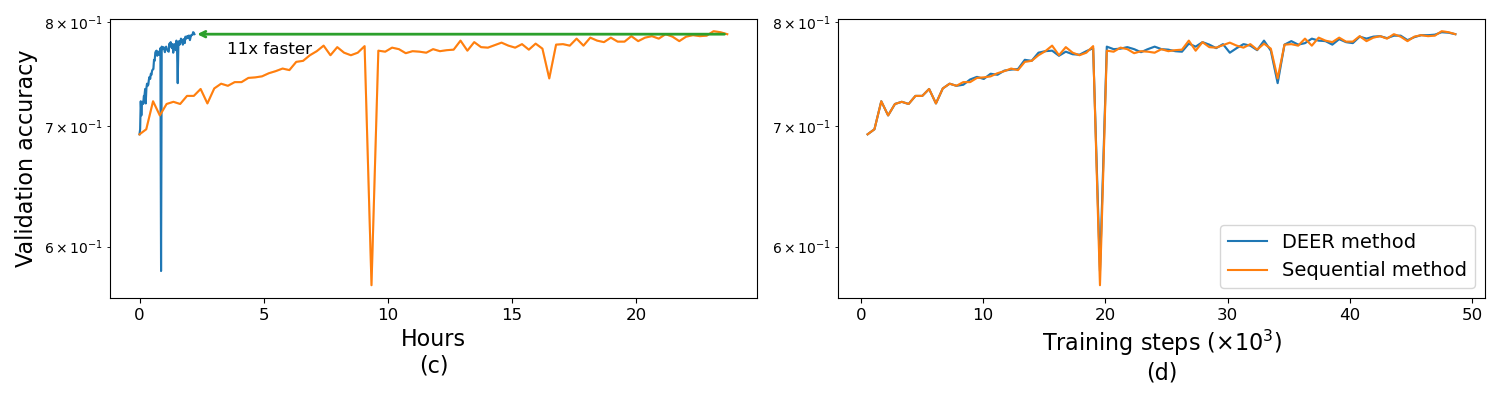
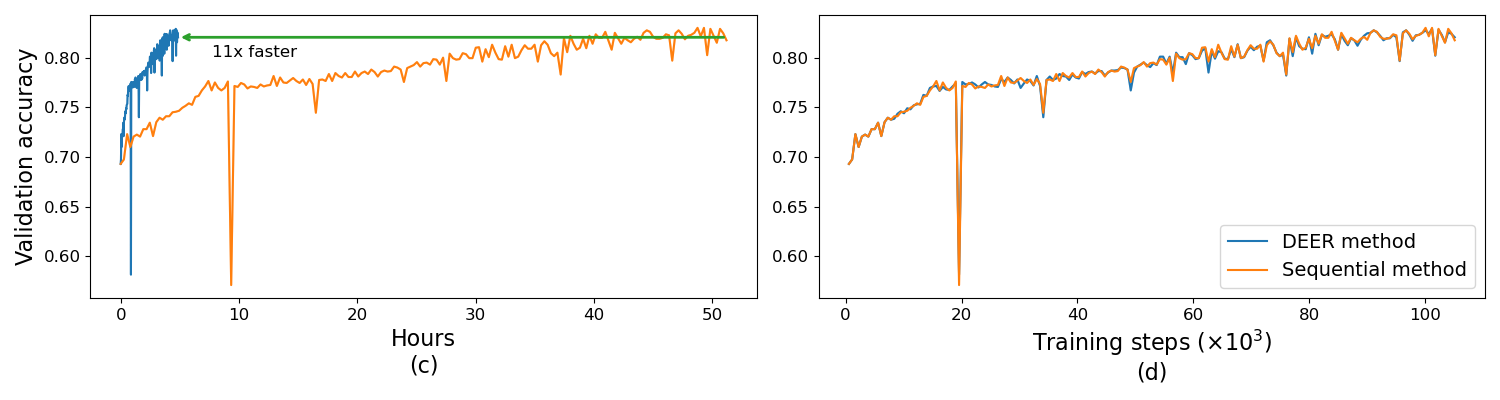
Modified the models to add layernorm

diff --git a/deer/experiments/rnn_classification/models.py b/deer/experiments/rnn_classification/models.py
@@ -103,7 +103,7 @@ class RNNClassifier(eqx.Module):
             ])
         else:
             self.embedding = eqx.nn.Identity()
-        self.norms = [eqx.nn.LayerNorm((nhiddens,)) for i in range(nlayers)]
+        self.norms = [eqx.nn.LayerNorm((nhiddens,), use_weight=False, use_bias=False) for i in range(nlayers)]
 
     def __call__(self, xs: jnp.ndarray, yinit_guess: Optional[List[jnp.ndarray]] = None) \
             -> Tuple[jnp.ndarray, List[jnp.ndarray]]:
